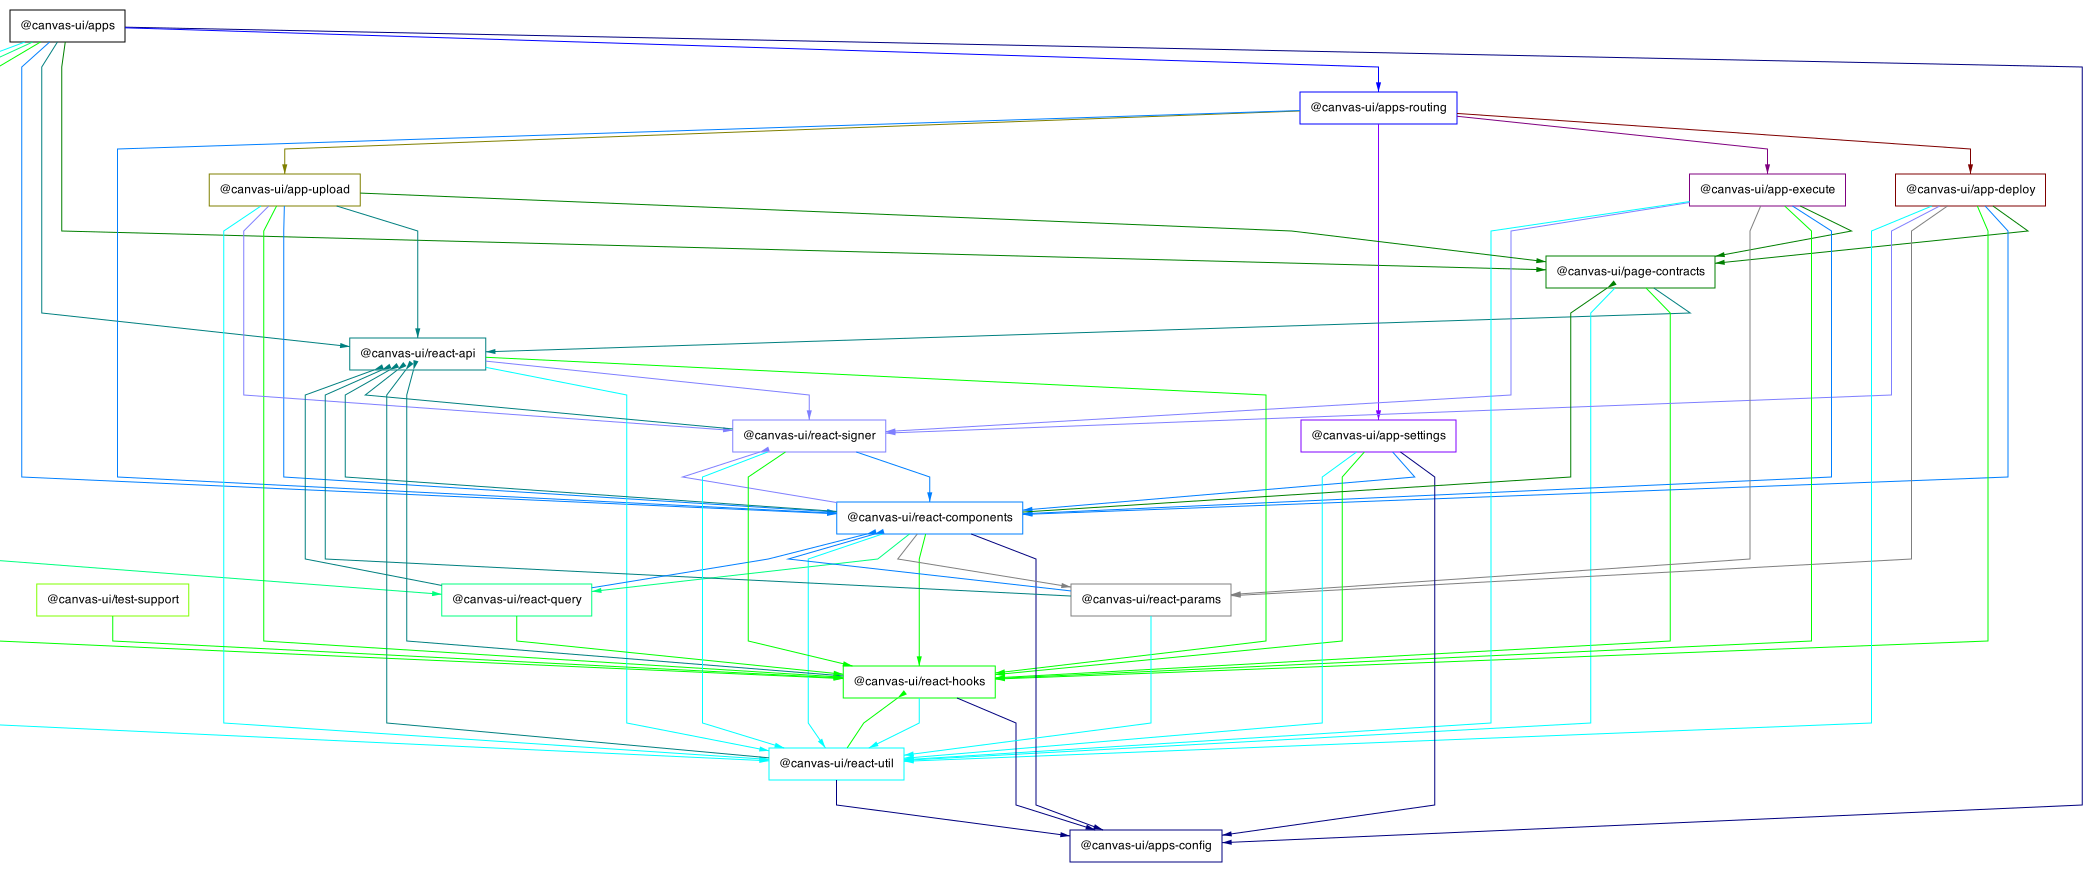
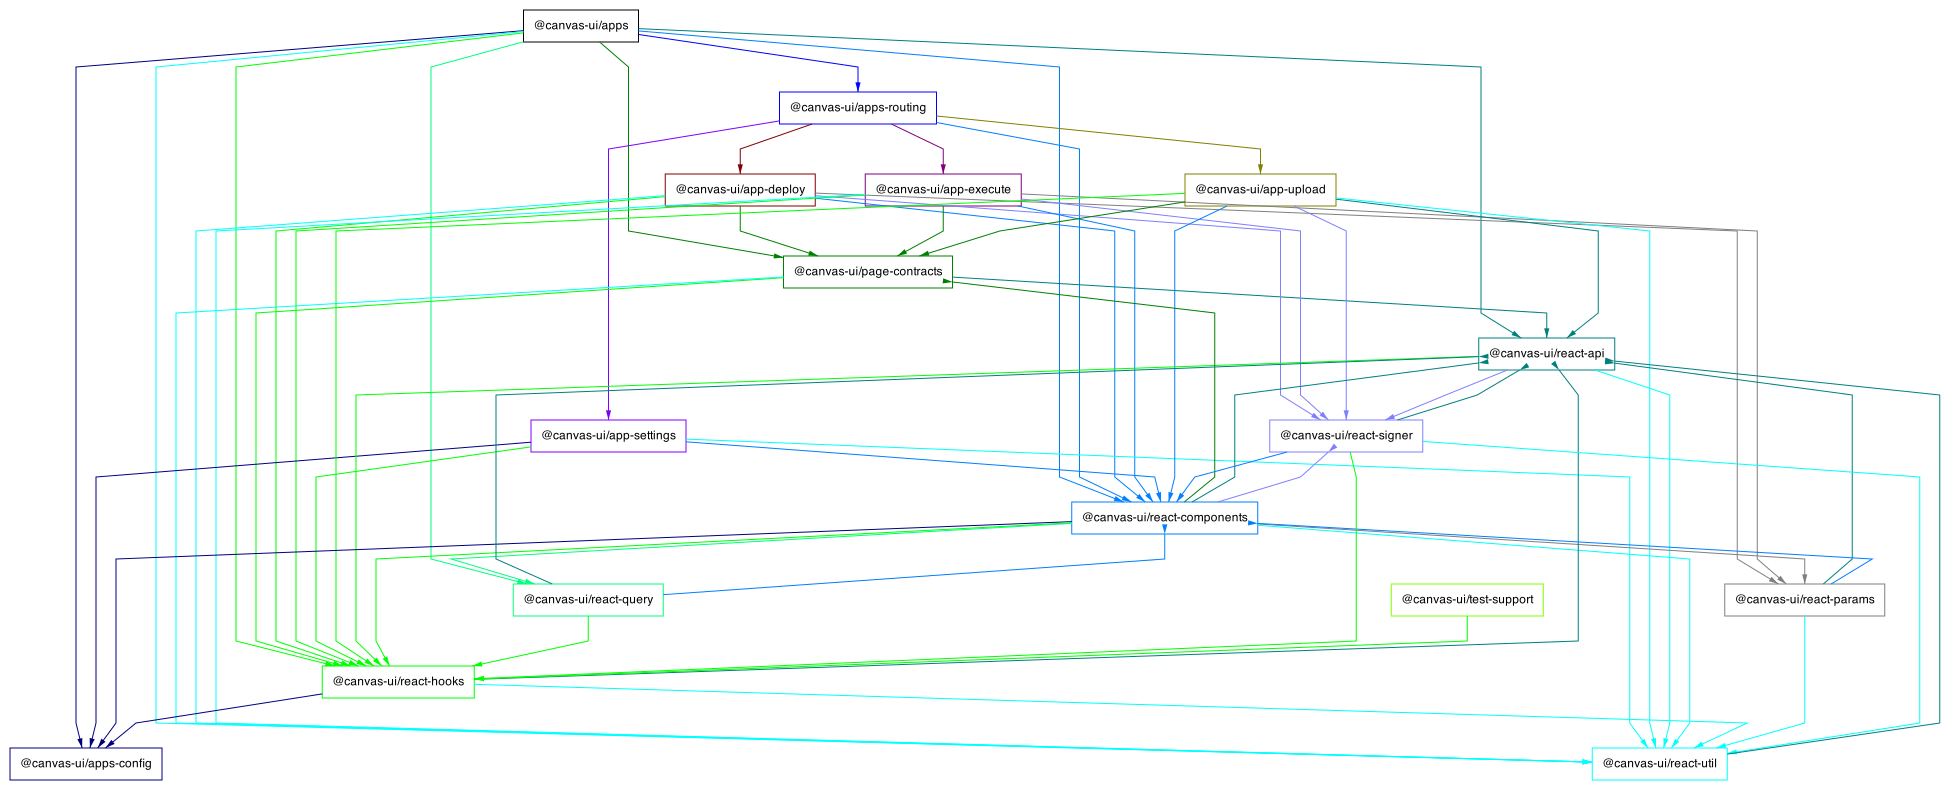
moved useEndPointOptions

diff --git a/packages/react-hooks/src/useEndpointOptions.tsx b/packages/react-hooks/src/useEndpointOptions.tsx
@@ -1,0 +1,39 @@
+// Copyright 2017-2021 @canvas-ui/app-settings authors & contributors
+// SPDX-License-Identifier: Apache-2.0
+
+import { createEndpoints } from '@canvas-ui/apps-config/settings';
+import useApi from './useApi';
+import { UseEndpoints } from './types';
+import { TFunction } from 'i18next';
+import React, { useMemo } from 'react';
+
+import classes from '@canvas-ui/react-util/classes';
+
+export default function useEndpointOptions(
+  { isCustom, url }: UseEndpoints,
+  t: TFunction,
+  useShortText?: boolean
+): React.ReactNode[] {
+  const { isApiConnected } = useApi();
+  const className = classes('chain-option', !isApiConnected && 'isDisconnected');
+
+  return useMemo(
+    () => [
+      ...createEndpoints(t).map(({ shortText, text, value }) => ({
+        key: value,
+        text: <div className={className}>{useShortText ? shortText : text}</div>,
+        value
+      })),
+      ...(isCustom
+        ? [
+            {
+              key: url,
+              text: <div className={className}>{t<string>('Custom Node')}</div>,
+              value: url
+            }
+          ]
+        : [])
+    ],
+    [className, isCustom, t, url, useShortText]
+  );
+}
